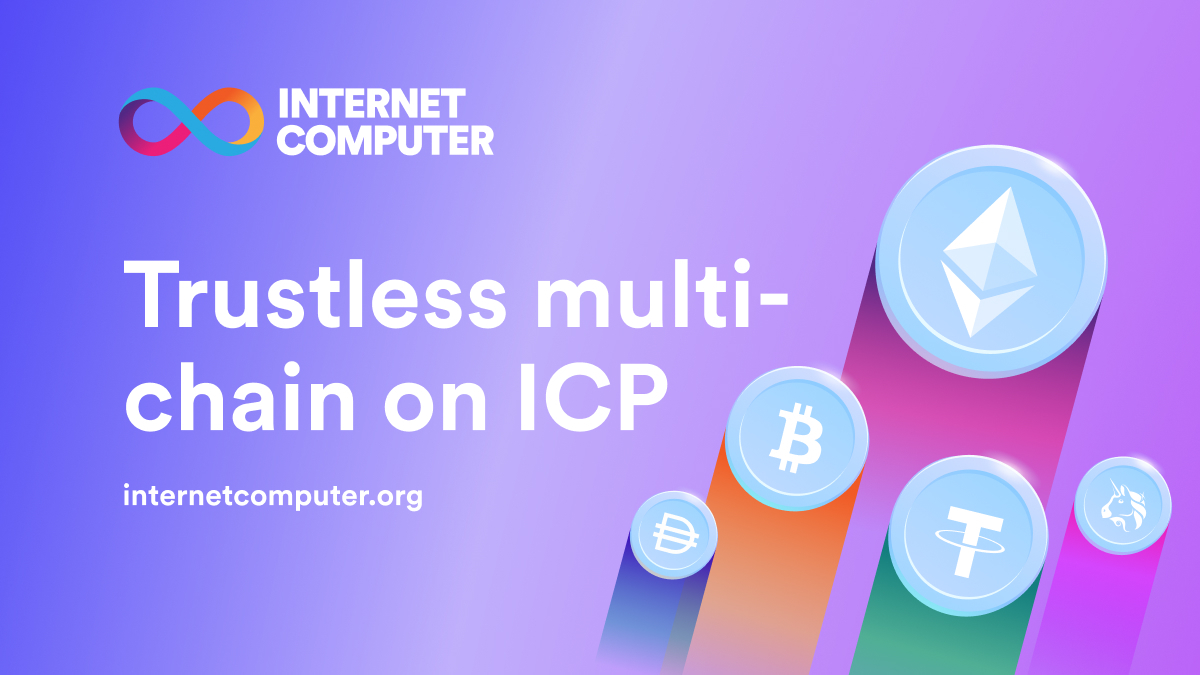
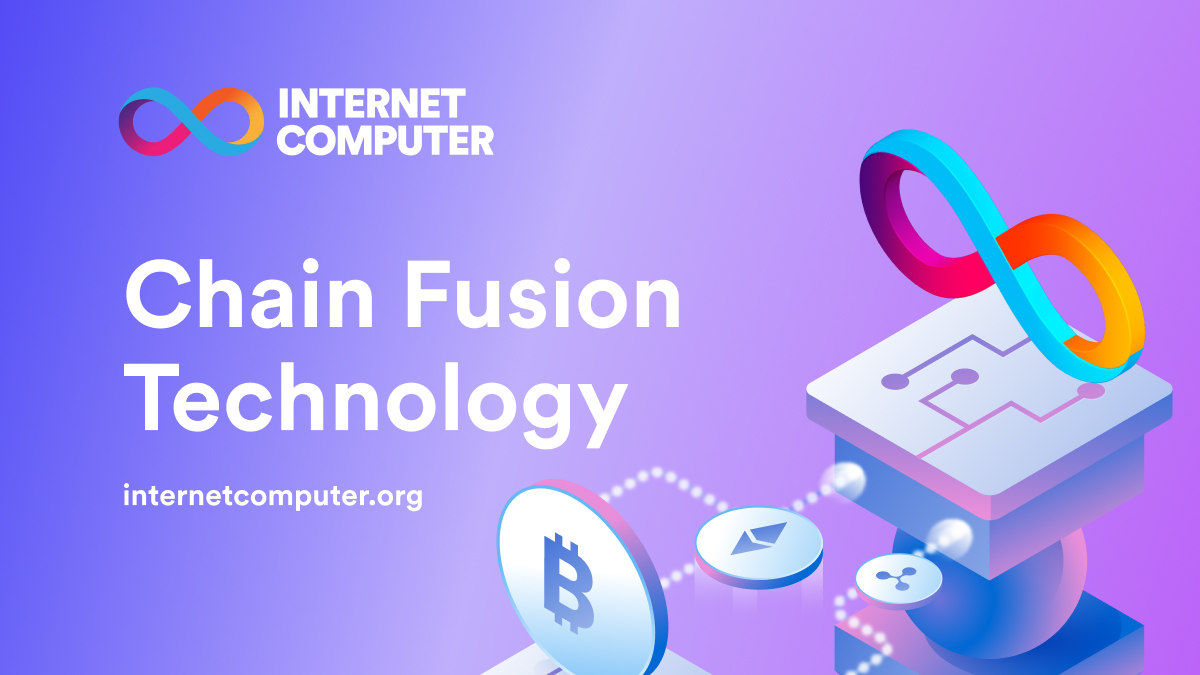
Update Multichain share image, nav image, docusaurus text

diff --git a/docusaurus.config.js b/docusaurus.config.js
@@ -299,7 +299,7 @@ const marketingNav = {
             },
           ],
           featured: {
-            title: "Trustless multi-chain",
+            title: "Chain Fusion Technology",
             href: "/multichain",
             image: "/img/nav/featured-use-cases.webp",
           },
